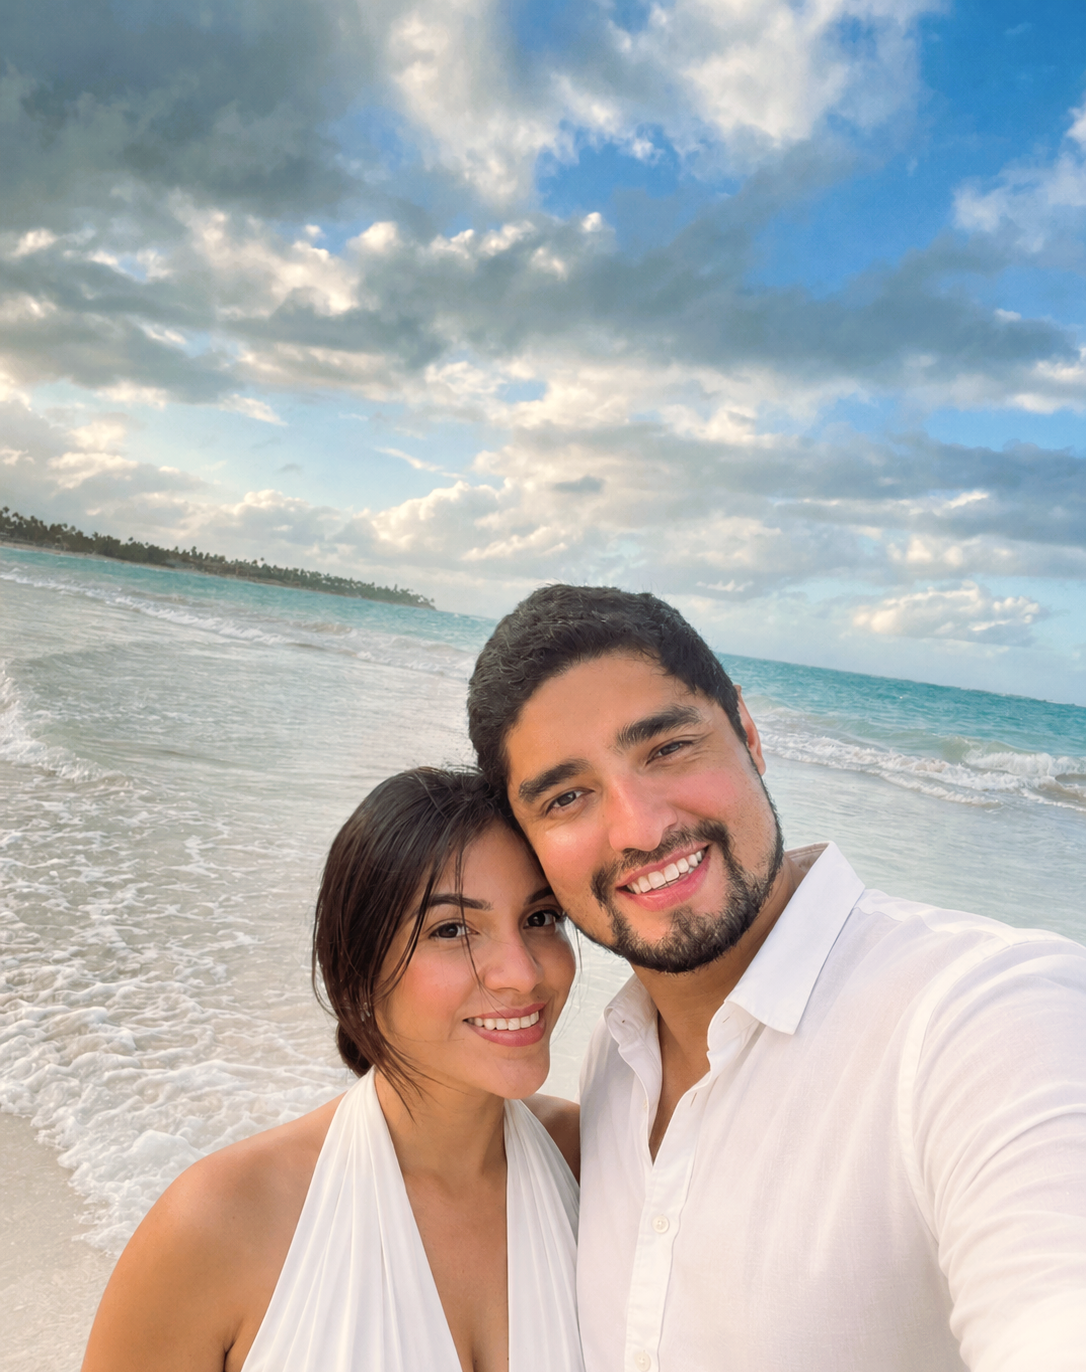
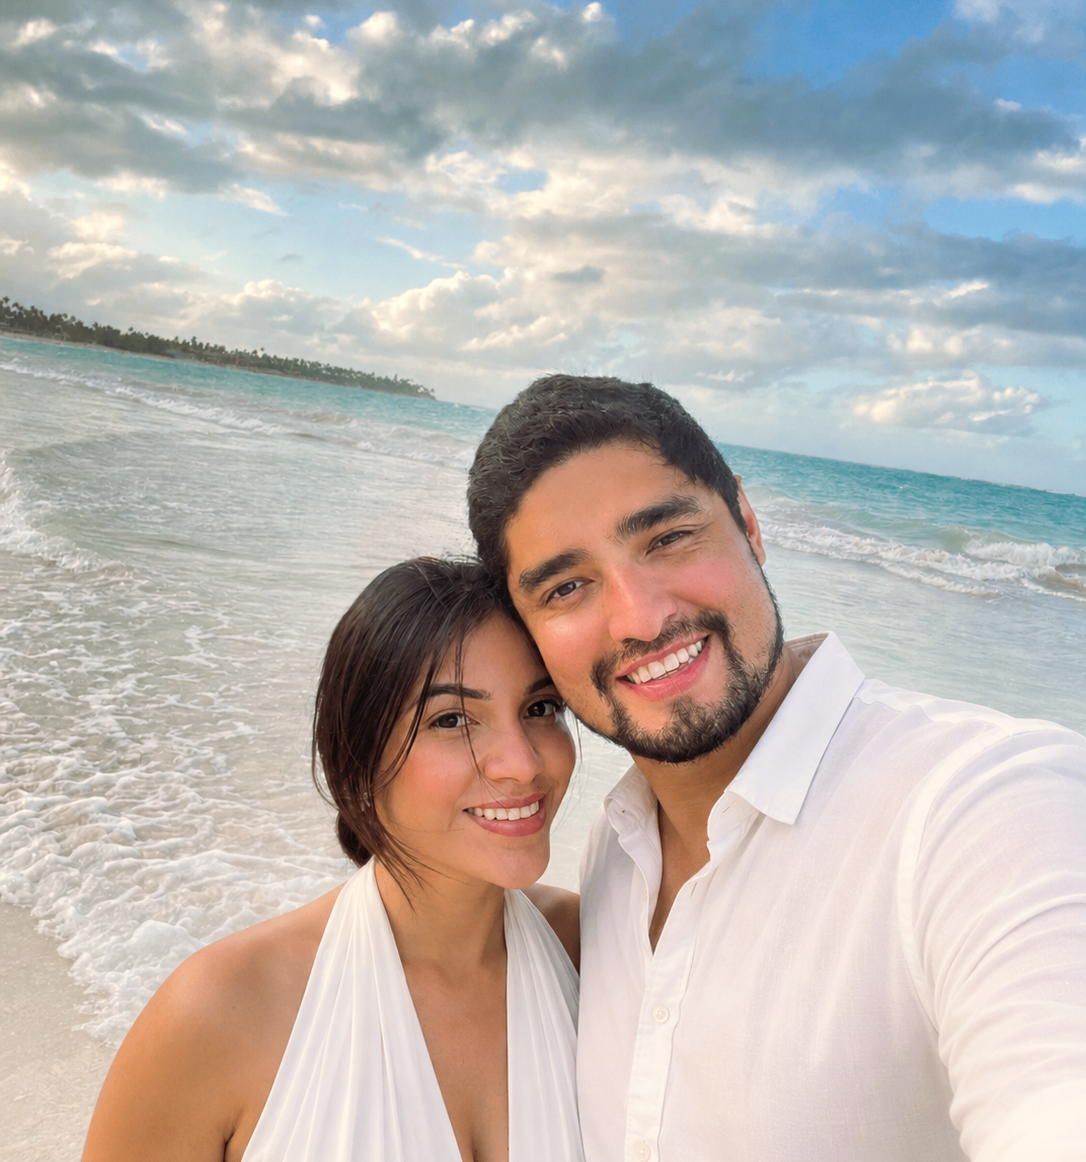
9

diff --git a/css/style.css b/css/style.css
@@ -179,8 +179,8 @@ PORTADA
     inset:0;
 
     background:linear-gradient(
-        rgba(0,0,0,.25),
-        rgba(0,0,0,.55)
+        rgba(0,0,0,.15),
+        rgba(0,0,0,.40)
     );
 
 }